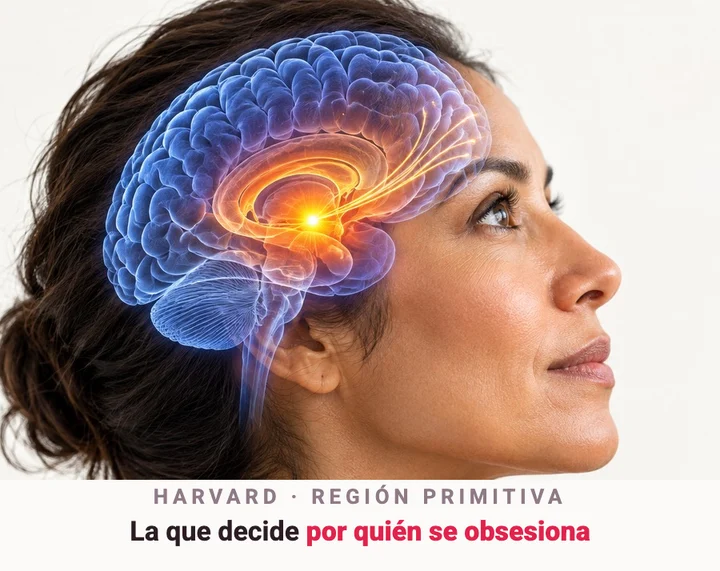
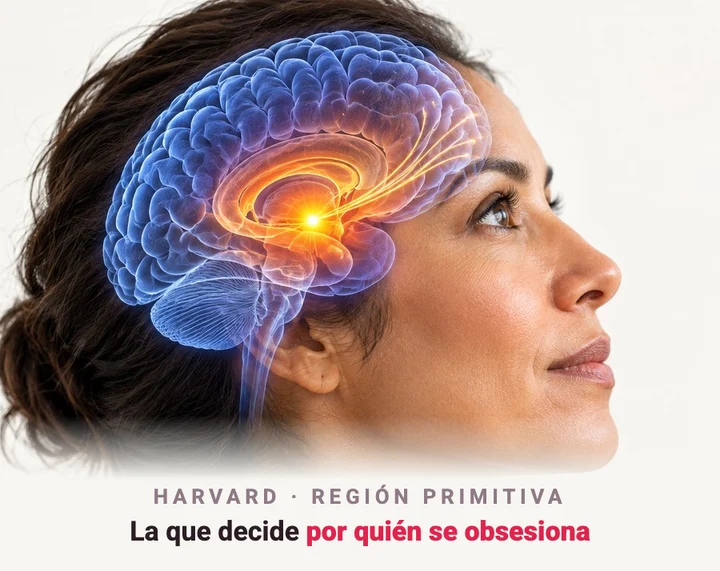
PRÉVIA landing: pontilhado branco, emenda suavizada; microtexto '2 min' sem quebrar linha

Changed region(s): [[0.0, 0.7145, 0.8556, 0.8634], [0.4889, 0.9229, 0.5194, 0.9527]]

diff --git a/src/components/Landing.tsx b/src/components/Landing.tsx
@@ -105,7 +105,7 @@ export default function Landing({ onNavigate }: LandingProps) {
                         <rect x="4" y="11" width="16" height="10" rx="2"></rect>
                         <path d="M8 11V7a4 4 0 0 1 8 0v4"></path>
                     </svg>
-                    <span>Test gratuito · 6 preguntas · 2 minutos · 100% anónimo</span>
+                    <span>Test gratuito · 6 preguntas · 2 min · 100% anónimo</span>
                 </p>
 
                 {/* 6. BENEFÍCIOS */}
@@ -130,7 +130,7 @@ export default function Landing({ onNavigate }: LandingProps) {
                 .lp-brain-wrap { position: relative; display: block; }
                 .lp-brain-glow, .lp-brain-ring { position: absolute; left: 43.21%; top: 38.98%; border-radius: 50%; pointer-events: none; transform: translate(-50%, -50%); }
                 .lp-brain-glow { width: 24%; aspect-ratio: 1; background: radial-gradient(circle, rgba(255,170,40,0.75) 0%, rgba(255,120,0,0.25) 40%, rgba(255,120,0,0) 70%); animation: lp-brain-pulse 1.6s ease-in-out infinite; }
-                .lp-brain-ring { width: 11%; aspect-ratio: 1; border: 2.5px dashed #ff8a00; animation: lp-brain-spin 6s linear infinite; }
+                .lp-brain-ring { width: 11%; aspect-ratio: 1; border: 3px dashed #ffffff; box-shadow: 0 0 10px rgba(255,140,0,0.9); animation: lp-brain-spin 6s linear infinite; }
                 @keyframes lp-brain-pulse { 0%, 100% { transform: translate(-50%, -50%) scale(0.85); opacity: 0.7; } 50% { transform: translate(-50%, -50%) scale(1.15); opacity: 1; } }
                 @keyframes lp-brain-spin { from { transform: translate(-50%, -50%) rotate(0deg); } to { transform: translate(-50%, -50%) rotate(360deg); } }
                 @media (prefers-reduced-motion: reduce) { .lp-brain-glow, .lp-brain-ring { animation: none; } }
@@ -323,6 +323,7 @@ export default function Landing({ onNavigate }: LandingProps) {
 
                 .lp-micro {
                     margin: 0;
+                    white-space: nowrap;
                     display: flex;
                     align-items: center;
                     justify-content: center;
@@ -363,6 +364,7 @@ export default function Landing({ onNavigate }: LandingProps) {
                     .lp-headline { font-size: 23px; }
                     .lp-bubble { font-size: 14px; }
                     .lp-cta { font-size: 17px; }
+                    .lp-micro { font-size: 12px; }
                 }
             `}</style>
         </div>
